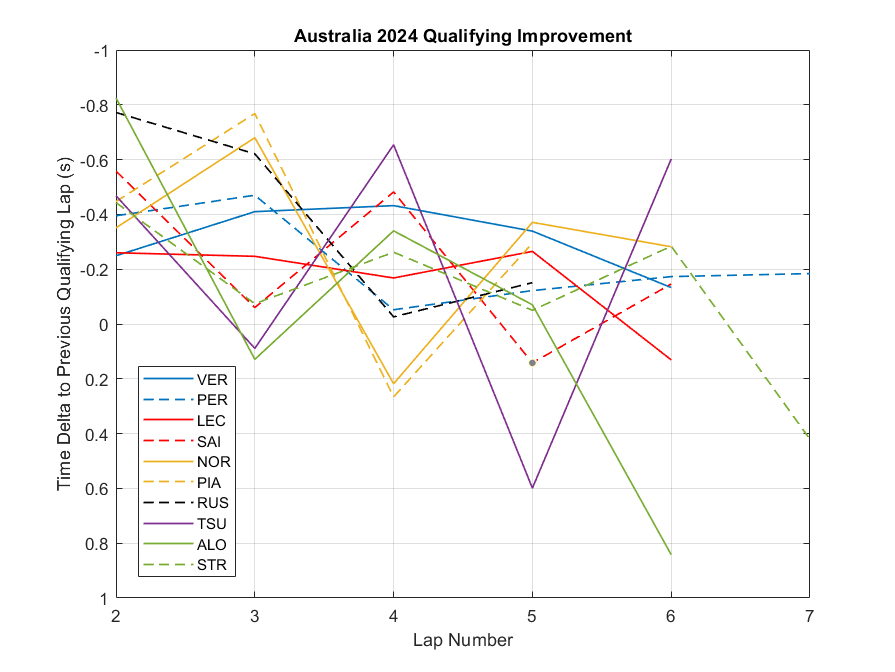
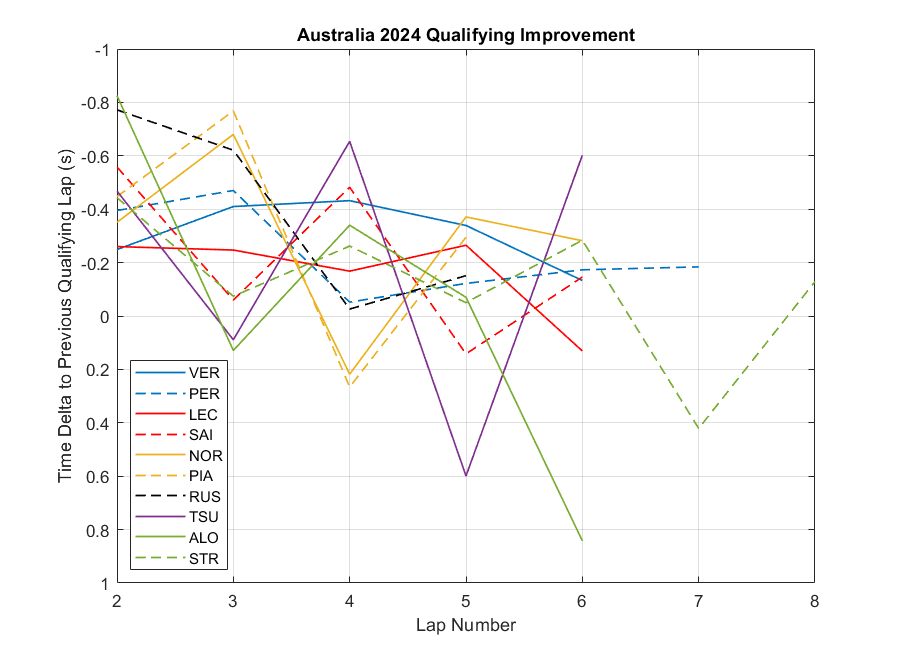
Adjusts xaxis limit to include all data.

diff --git a/Australia_2024_Qualifying_Plots/Australia_2024_Qualifying.m b/Australia_2024_Qualifying_Plots/Australia_2024_Qualifying.m
@@ -38,7 +38,7 @@ xlabel("Lap Number")
 ylabel("Time Delta to Previous Qualifying Lap (s)")
 set ( gca, 'YDir', 'reverse' )
 grid on
-xlim([2,7])
+xlim([2,8])
 xticks(1:1:10)
 legend(["VER", "PER", "LEC", "SAI", "NOR", "PIA", "RUS", "TSU", ...
     "ALO", "STR"],"Location","northeast");
